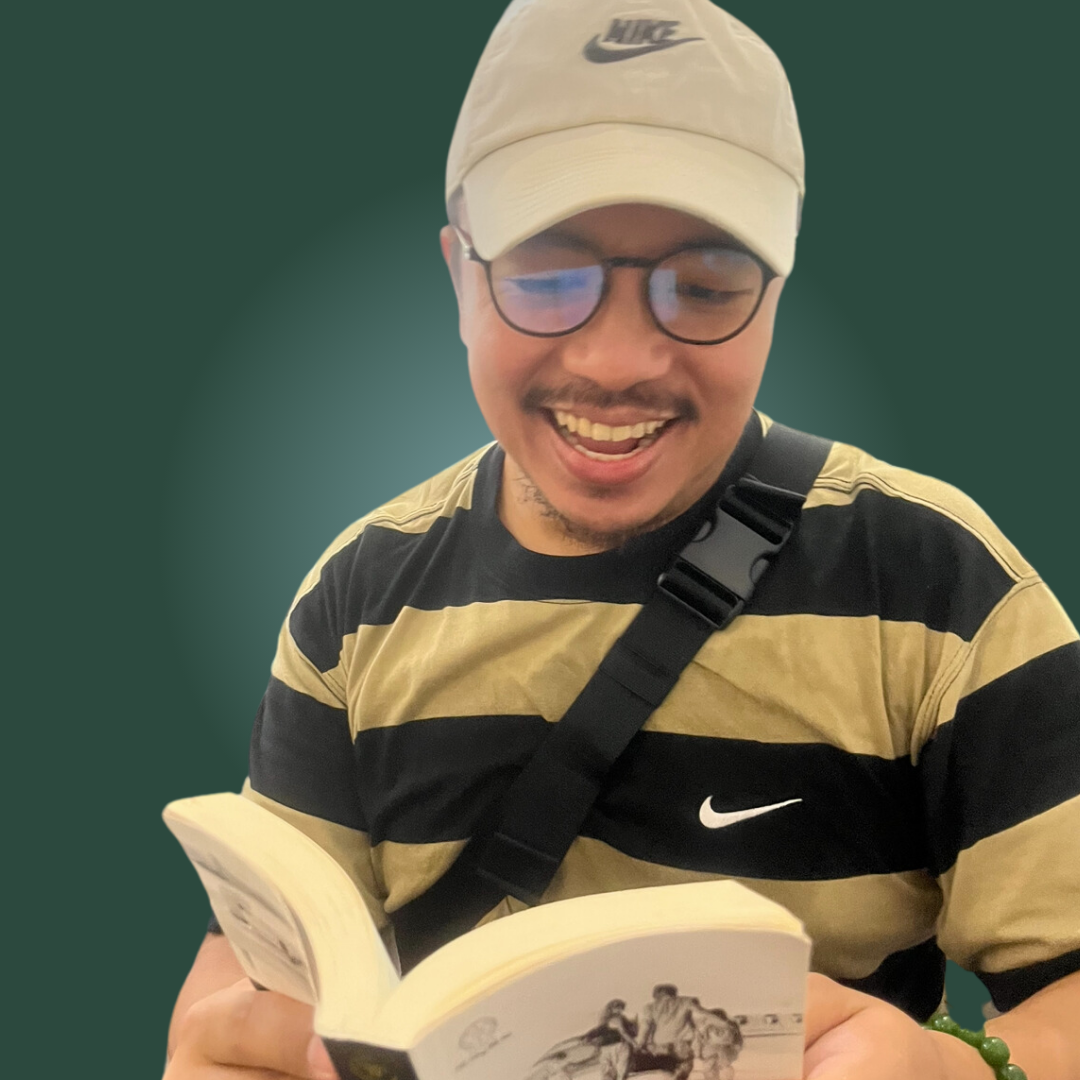
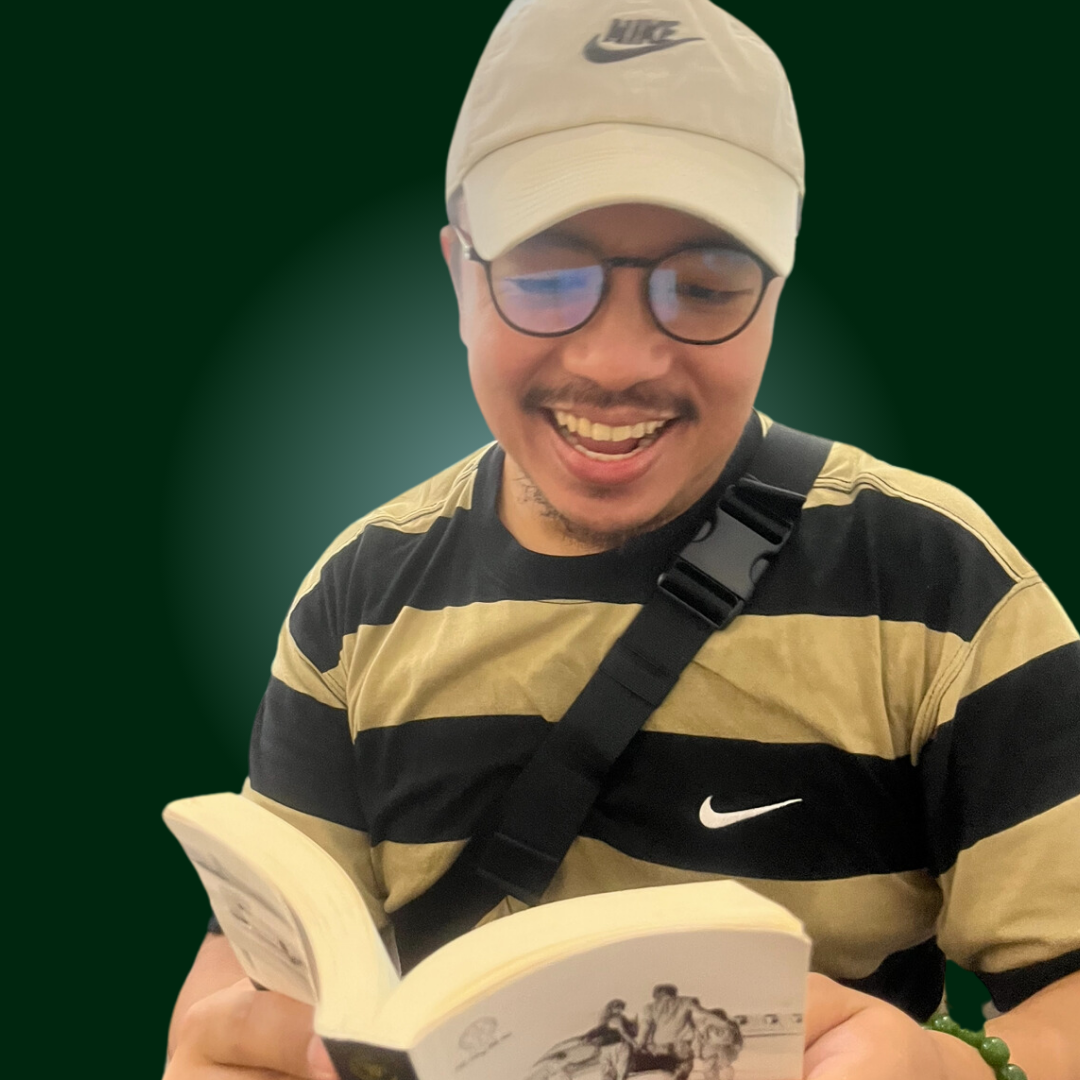
Modified files

diff --git a/app/global.css b/app/global.css
@@ -96,13 +96,12 @@ a:hover {
 }
 
 .className01Img {
-    filter: brightness(75%);
     max-width: 100%;
     max-height: 100%;
     border-radius: 40px;
     padding: 5vw 10vw;
     width: 320px;
-    height: 489px;
+    height: 320px;
 }
 
 .className02Img {
@@ -111,13 +110,12 @@ a:hover {
 }
 
 .className03Img {
-    filter: brightness(75%);
     max-width: 100%;
     max-height: 100%;
     border-radius: 40px;
     padding: 5vw 10vw;
     width: 320px;
-    height: 326px;
+    height: 320px;
 }
 
 .className04Img {
@@ -230,7 +228,7 @@ a:hover {
 @media screen and (max-width: 1080px) {
     .className01Img {
         width: 290px;
-        height: 444px;
+        height: 290px;
     }
 
     .className02Img {
@@ -240,7 +238,7 @@ a:hover {
 
     .className03Img {
         width: 290px;
-        height: 295px;
+        height: 290px;
     }
 
     .className04Img {
@@ -301,7 +299,7 @@ a:hover {
 @media screen and (max-width: 920px) {
     .className01Img {
         width: 260px;
-        height: 398px;
+        height: 260px;
     }
 
     .className02Img {
@@ -311,7 +309,7 @@ a:hover {
 
     .className03Img {
         width: 260px;
-        height: 265px;
+        height: 260px;
     }
 
     .className04Img {
@@ -372,7 +370,7 @@ a:hover {
 @media screen and (max-width: 760px) {
     .className01Img {
         width: 230px;
-        height: 352px;
+        height: 230px;
     }
 
     .className02Img {
@@ -382,7 +380,7 @@ a:hover {
 
     .className03Img {
         width: 230px;
-        height: 234px;
+        height: 230px;
     }
 
     .className04Img {
@@ -443,7 +441,7 @@ a:hover {
 @media screen and (max-width: 600px) {
     .className01Img {
         width: 200px;
-        height: 306px;
+        height: 200px;
     }
 
     .className02Img {
@@ -453,7 +451,7 @@ a:hover {
 
     .className03Img {
         width: 200px;
-        height: 203px;
+        height: 200px;
     }
 
     .className04Img {
@@ -514,7 +512,7 @@ a:hover {
 @media screen and (max-width: 520px) {
     .className01Img {
         width: 110px;
-        height: 168px;
+        height: 110px;
     }
 
     .className02Img {
@@ -524,7 +522,7 @@ a:hover {
 
     .className03Img {
         width: 110px;
-        height: 112px;
+        height: 110px;
     }
 
     .className04Img {
@@ -585,7 +583,7 @@ a:hover {
 @media screen and (max-width: 440px) {
     .className01Img {
         width: 80px;
-        height: 122px;
+        height: 80px;
     }
 
     .className02Img {
@@ -595,7 +593,7 @@ a:hover {
 
     .className03Img {
         width: 80px;
-        height: 81px;
+        height: 80px;
     }
 
     .className04Img {
